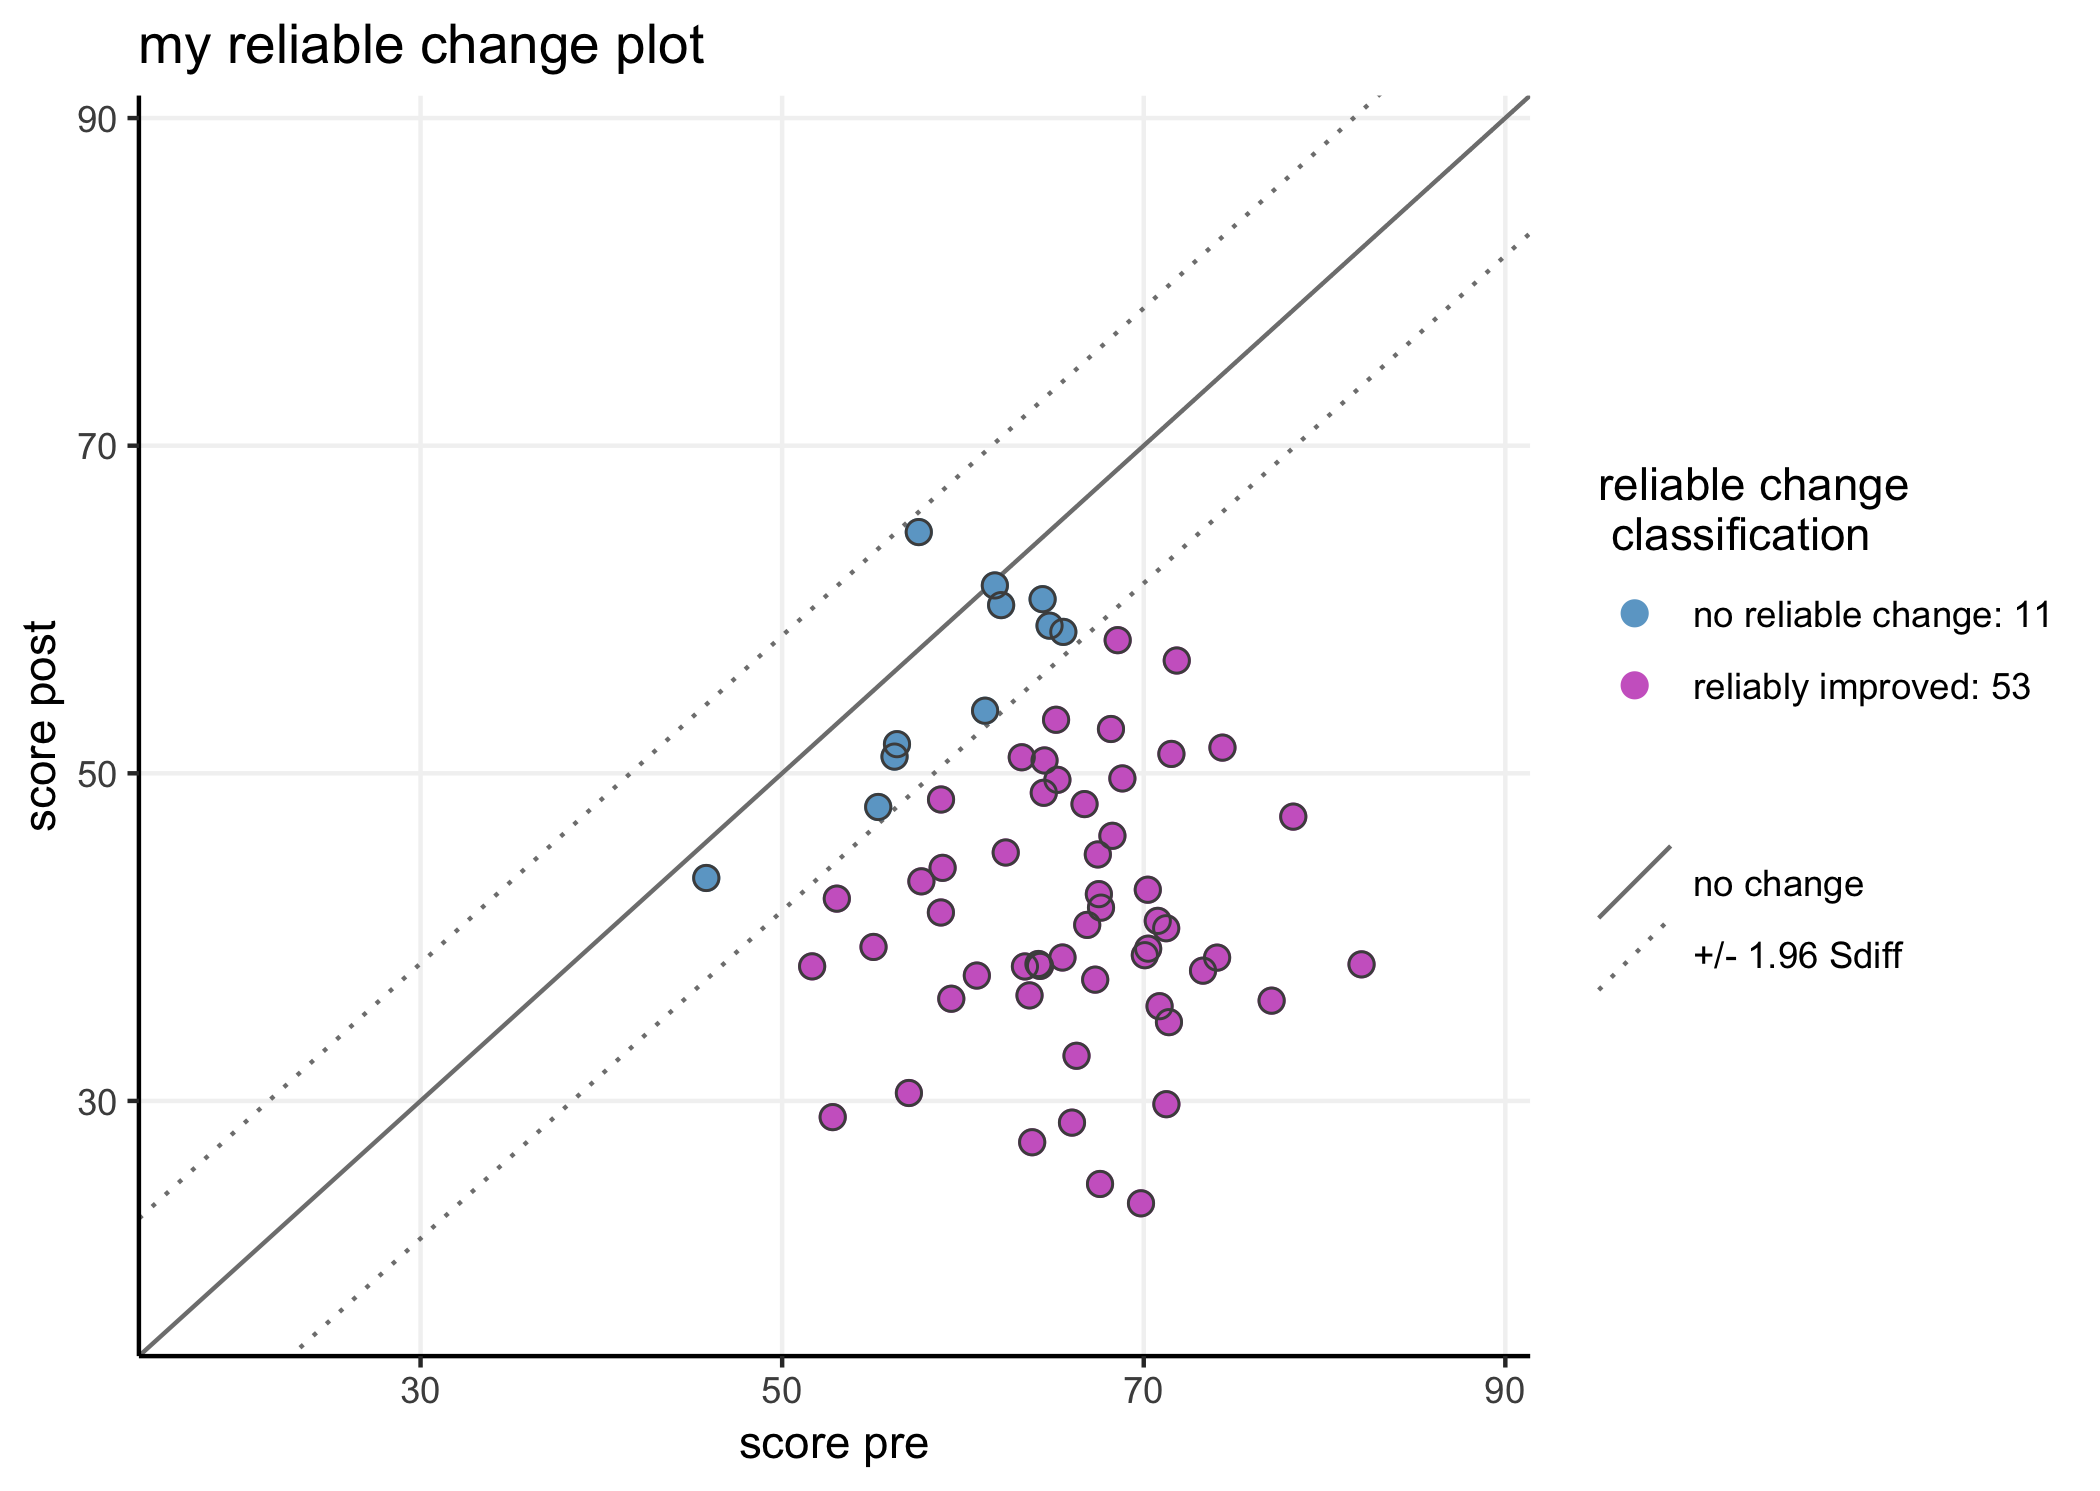
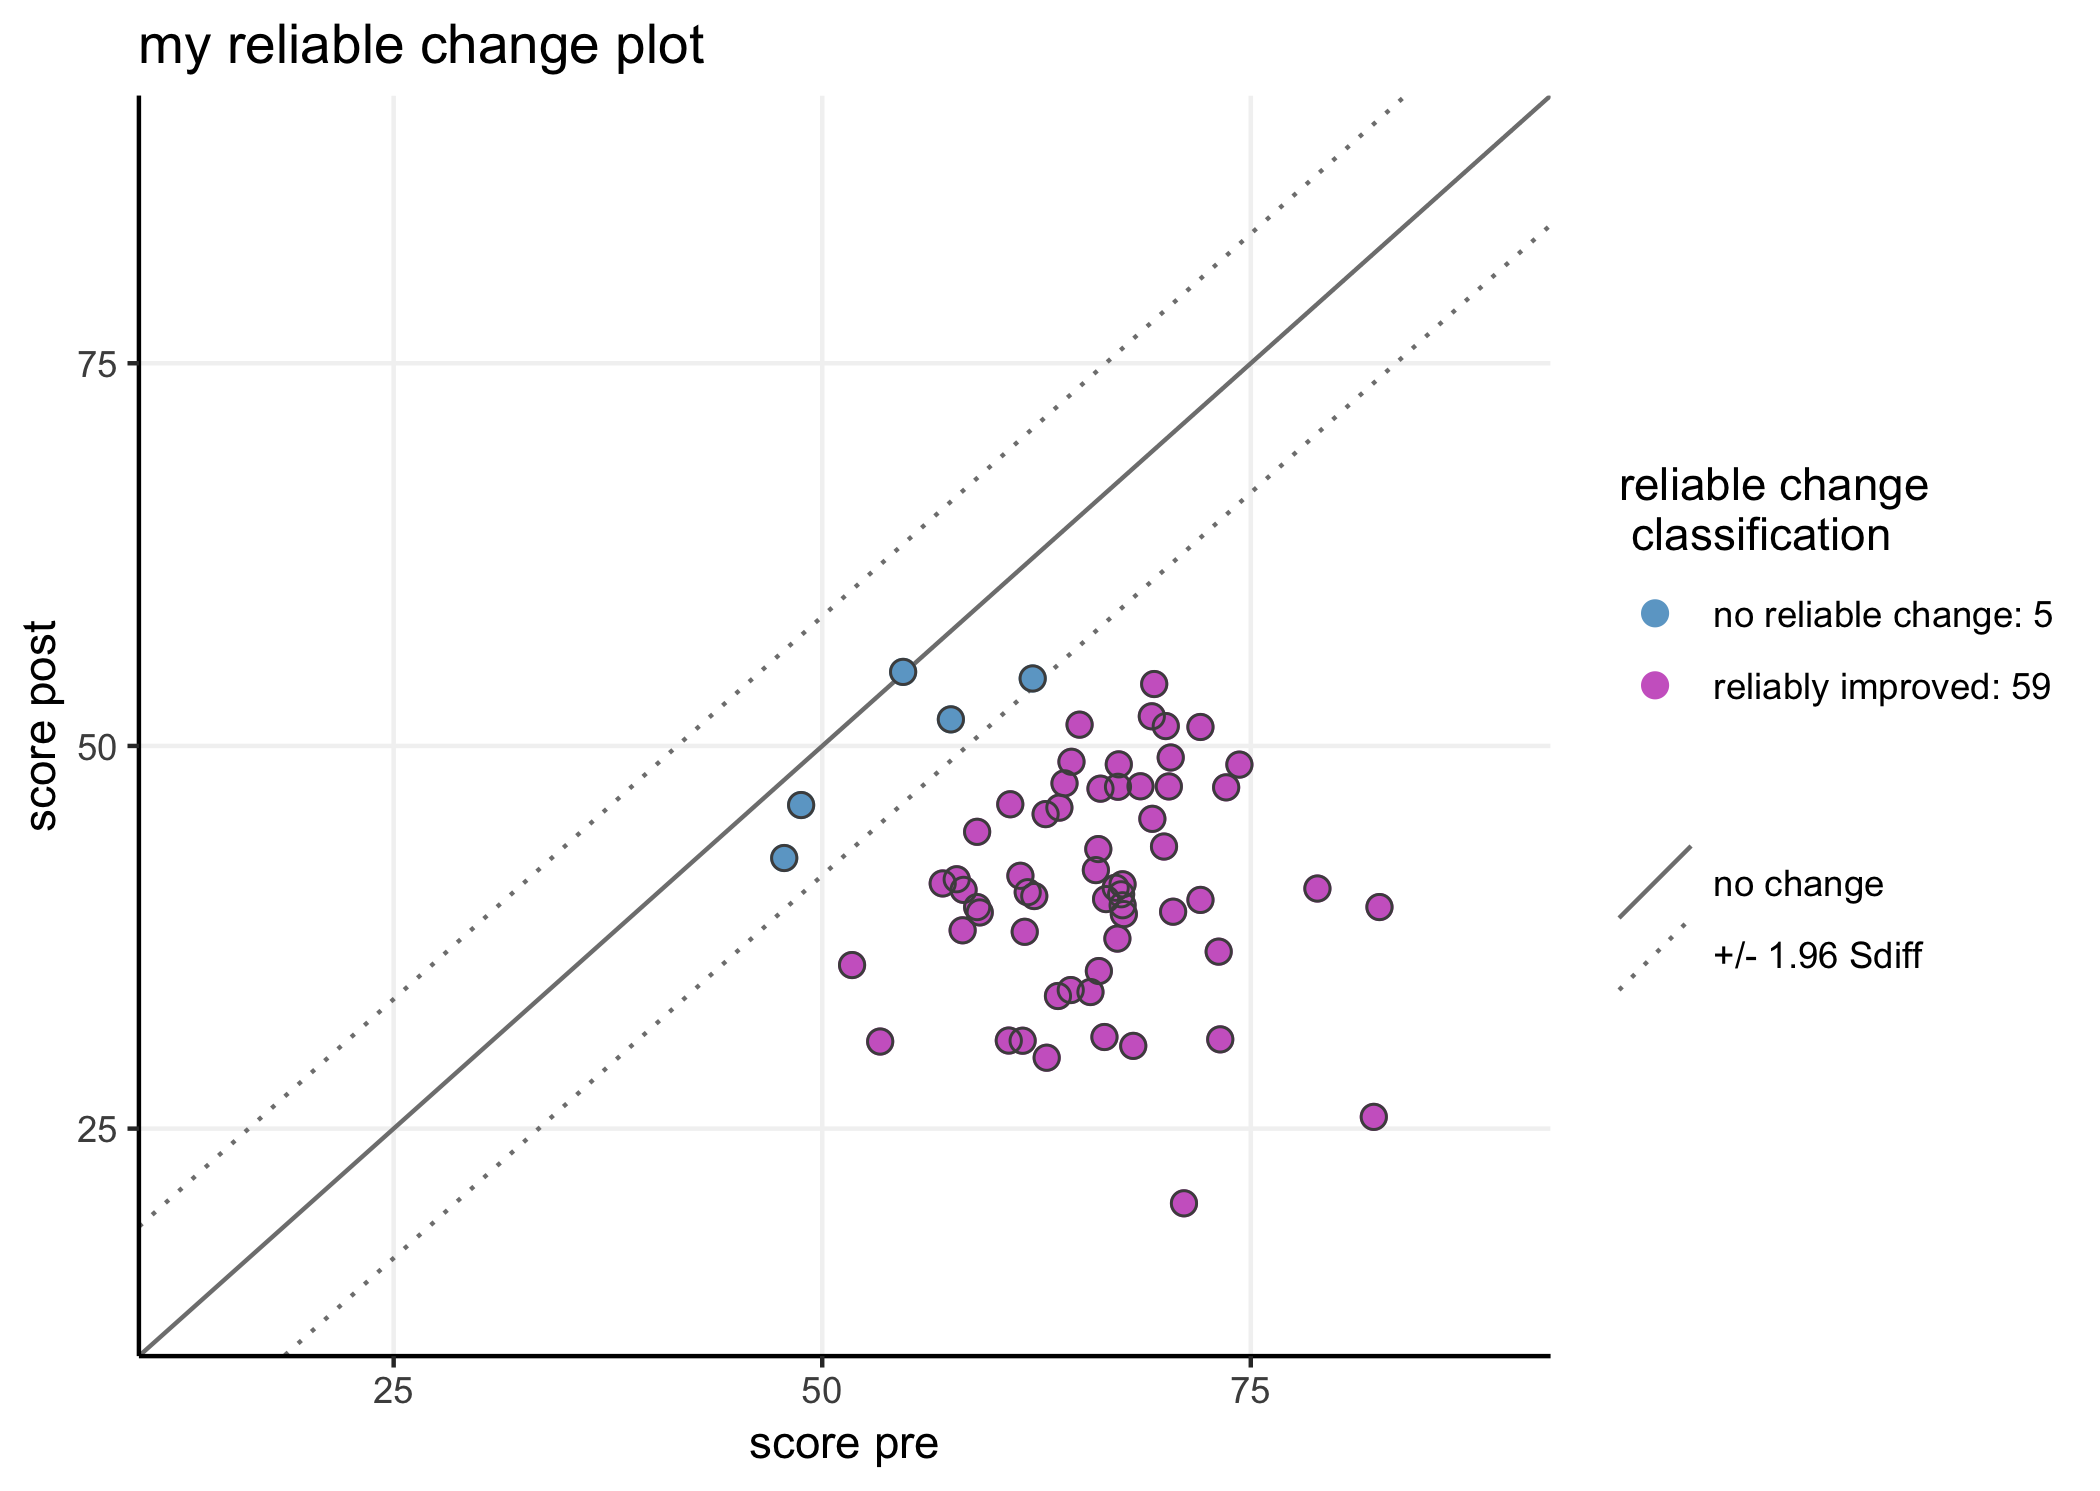
table function separated

diff --git a/README.md b/README.md
@@ -69,8 +69,8 @@ The JTplot()/RCIplot() functions take the following parameters:
 plot”,  
              addInfoLegend = c(“yes”, “classcounts”, “JTcrit”, “no”))
 
-These parameters can also be passed directly into a call on JTRCI() (see
-examples below)
+The plot parameters can also be passed directly into a call on JTRCI()
+(see examples below)
 
 # 
 
@@ -108,7 +108,6 @@ JTRCI(data = df,
       ppid = "ppid", 
       pre = "pre", 
       post = "post",  
-      group = "group", 
       reliability = .8, 
       indextype = "JT", 
       JTcrit = "auto")
@@ -120,18 +119,19 @@ JTRCI(data = df,
     ## NB: using the sample baseline distribution to characterize the dysfunctional population. 
     ##     to change: provide norms for dysfunctional population using 'dysfM =' and 'dysfSD ='
 
-    ## Jacobson-Truax criterion A: 51.5
+    ## Jacobson-Truax criterion A: 51.6
 
-    ##  this value represents two sd from the baseline total sample mean
+    ##  this value represents two sd from the baseline  sample mean
 
-    ## 1 participants scored below the Jacobson-Truax cut-off score at the pre-measurement 
+    ## 2 participants scored below the Jacobson-Truax cut-off score at the pre-measurement 
     ##  interpret their Jacobson-Truax classification with caution
 
-    ##    Jacobson Truax classification  N
-    ## 1:                     unchanged  8
-    ## 2:                      improved  5
-    ## 3:        non reliably recovered  3
-    ## 4:                     recovered 48
+    ##    Jacobson-Truax classification  N
+    ## 1:                  deteriorated  0
+    ## 2:                     unchanged  3
+    ## 3:                      improved  2
+    ## 4:        non reliably recovered  2
+    ## 5:                     recovered 57
 
 <img src="README_files/figure-gfm/unnamed-chunk-8-1.png" height="450px" />
 
@@ -139,7 +139,7 @@ Obtain reliable change indices by setting parameter indextype = “RCI”:
 
 ``` r
 # obtain reliable change indices 
-# also disable plotting with plot = F:
+# disable table and plot with 'table = F' & 'plot = F'
 JTRCI(data = df, pre = "pre", post = "post", group = "group", ppid = "ppid",
       reliability = .8, indextype = "RCI",  table = F, plot = F)
 ```
@@ -153,10 +153,30 @@ plot\_RCI():
 ``` r
 # plot the reliable change indices obtained in the previous chunk - set x y and plot labels:
 
-plotRCI(xlab = "score pre", ylab = "score post", plottitle = "my reliable change plot")
+plotRCI(xlab = "score pre", ylab = "score post", plottitle = "my reliable change plot", useGroups = F)
 ```
 
 <img src="README_files/figure-gfm/unnamed-chunk-10-1.png" height="450px" />
+
+and obtain RCI tables by calling tableRCI():
+
+``` r
+tableRCI(useGroups = F)
+```
+
+    ##    reliable change classification  N
+    ## 1:          reliably deteriorated  0
+    ## 2:             no reliable change  5
+    ## 3:              reliably improved 59
+
+``` r
+tableRCI(useGroups = T)
+```
+
+    ##    reliable change classification control treatment
+    ## 1:          reliably deteriorated       0         0
+    ## 2:             no reliable change       3         2
+    ## 3:              reliably improved      29        30
 
 Parameters for the plot\_JT()/plot\_RCI() functions can also be passed
 directly in the JTRCI() function:
@@ -186,12 +206,14 @@ JTRCI(data = df, pre = "pre", post = "post",  group = "group", ppid = "ppid",
 
     ##  this value represents two sd from the functional/healthy population norm mean
 
-    ##    Jacobson Truax classification  N
-    ## 1:                     unchanged 11
-    ## 2:                      improved 27
-    ## 3:                     recovered 26
+    ##    Jacobson-Truax classification control treatment
+    ## 1:                  deteriorated       0         0
+    ## 2:                     unchanged       3         2
+    ## 3:                      improved      18        15
+    ## 4:        non reliably recovered       0         0
+    ## 5:                     recovered      11        15
 
-<img src="README_files/figure-gfm/unnamed-chunk-11-1.png" height="450px" />
+<img src="README_files/figure-gfm/unnamed-chunk-12-1.png" height="450px" />
 
 Plot groups in separate facets:
 
@@ -215,13 +237,14 @@ JTRCI(data = df, pre = "pre", post = "post",  group = "group", ppid = "ppid",
     ##  this value represents the weighted midpoint between the dysfunctional and functional norm mean, 
     ##  i.e. the value at which an individual is equally likely to belong to the functional as to the dysfunctional population
 
-    ##    Jacobson Truax classification  N
-    ## 1:                     unchanged 10
-    ## 2:                      improved 17
-    ## 3:        non reliably recovered  1
-    ## 4:                     recovered 36
+    ##    Jacobson-Truax classification control treatment
+    ## 1:                  deteriorated       0         0
+    ## 2:                     unchanged       3         1
+    ## 3:                      improved      12         7
+    ## 4:        non reliably recovered       0         1
+    ## 5:                     recovered      17        23
 
-<img src="README_files/figure-gfm/unnamed-chunk-12-1.png" height="450px" />
+<img src="README_files/figure-gfm/unnamed-chunk-13-1.png" height="450px" />
 
 It is important to note that when assessing/plotting Jacobson-Truax
 indices for multiple groups, the function treats the groups as one group
@@ -242,7 +265,7 @@ post-assessment would be classified as ‘recovered’ without an actual
 recovering happening. The JTRCI() function will issue a message if any
 participant scored below the JT criterion at baseline.
 
-If such cases occur and are problmeatic, the more ‘simple’ reliable
+If such cases occur and are problematic, the more ‘simple’ reliable
 change indices can be used (set parameter ‘indextype = “RCI”’). Reliable
 change indices can also be used for comparison of groups preselected to
 (likely) differ at baseline on the measure assessed.
